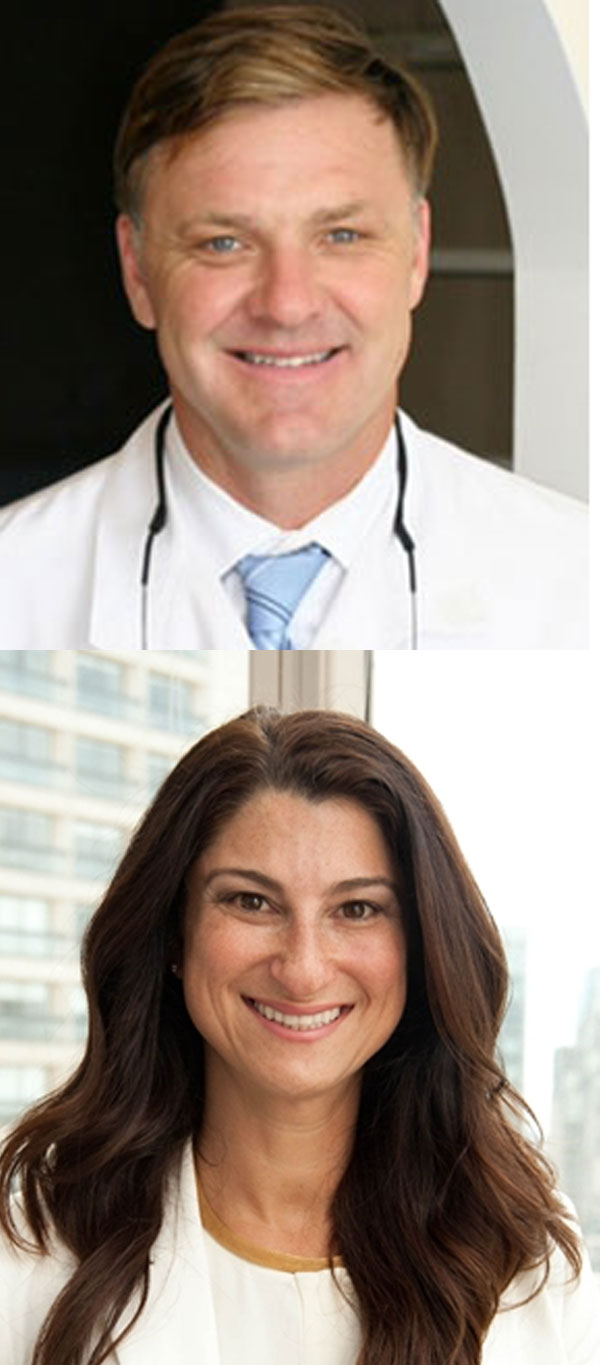
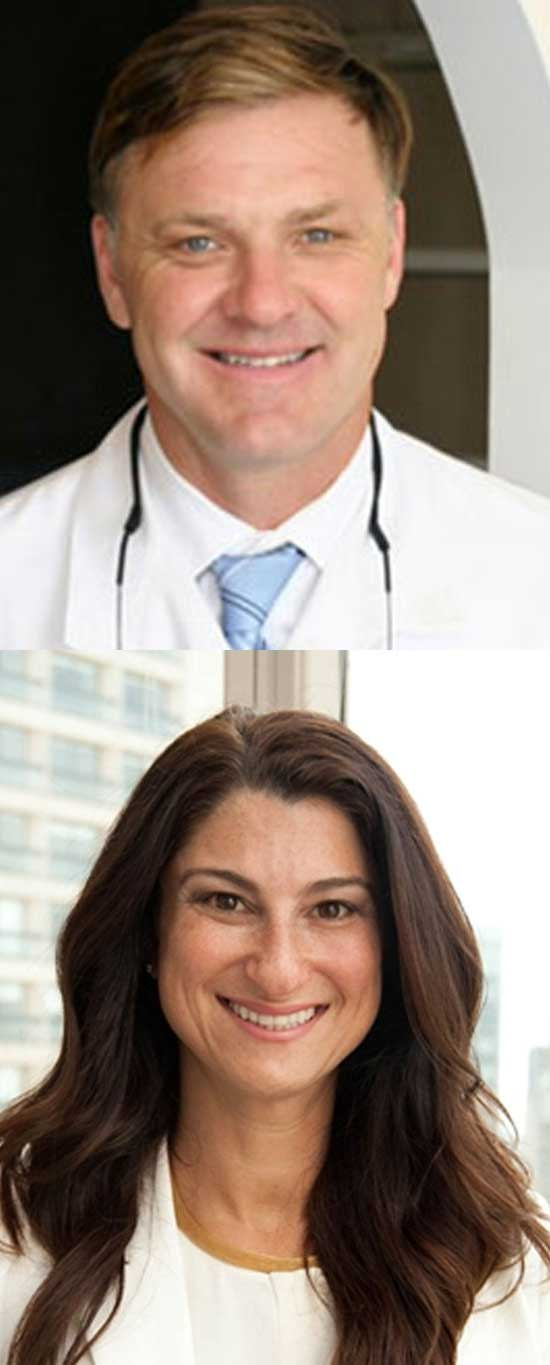
finally getting the spacing correct with the different sections so they line up

diff --git a/index.html b/index.html
@@ -224,9 +224,9 @@
                         
 
                         <!-- PROFILE PICTURE START -->
-                        <div class="col-md-5 hidden-xs hidden-sm match-height pp-wrapper">
+                        <div class="col-md-5 col-lg-4 hidden-xs hidden-sm match-height pp-wrapper">
                             <div class="profile-picture style-one">
-                                <img src="assets/images/happyCouple-todd.jpg" alt="profile picture" class="img-responsive"/><img src="assets/images/happyCouple-tracy.jpg" alt="profile picture" class="img-responsive"/>
+                                <img src="assets/images/happyCouple-2.jpg" alt="profile picture" class="img-responsive"/>
                             </div>
                         </div>
                         <!-- //PROFILE PICTURE END -->
@@ -242,7 +242,7 @@
         <!-- PORTFOLIO SECTION START -->
         <section id="portfolio" class="section">
             <div class="container-fluid section-wrapper">
-                <div class="section-content">
+                <div class="section-content container">
                     <div class="row">
 
                         <div class="col-md-6 col-md-offset-1">

diff --git a/assets/css/main.css b/assets/css/main.css
@@ -1299,7 +1299,7 @@ filter: progid:DXImageTransform.Microsoft.gradient( startColorstr='#d9a8b7cb', e
 
 .portfolio {
   margin-top: -100px;
-  margin-left: 80px;
+  /*margin-left: 80px;*/
   padding-top: 70px;
   padding-bottom: 70px;
   background-color: rgba(255, 255, 255, 0.9);
